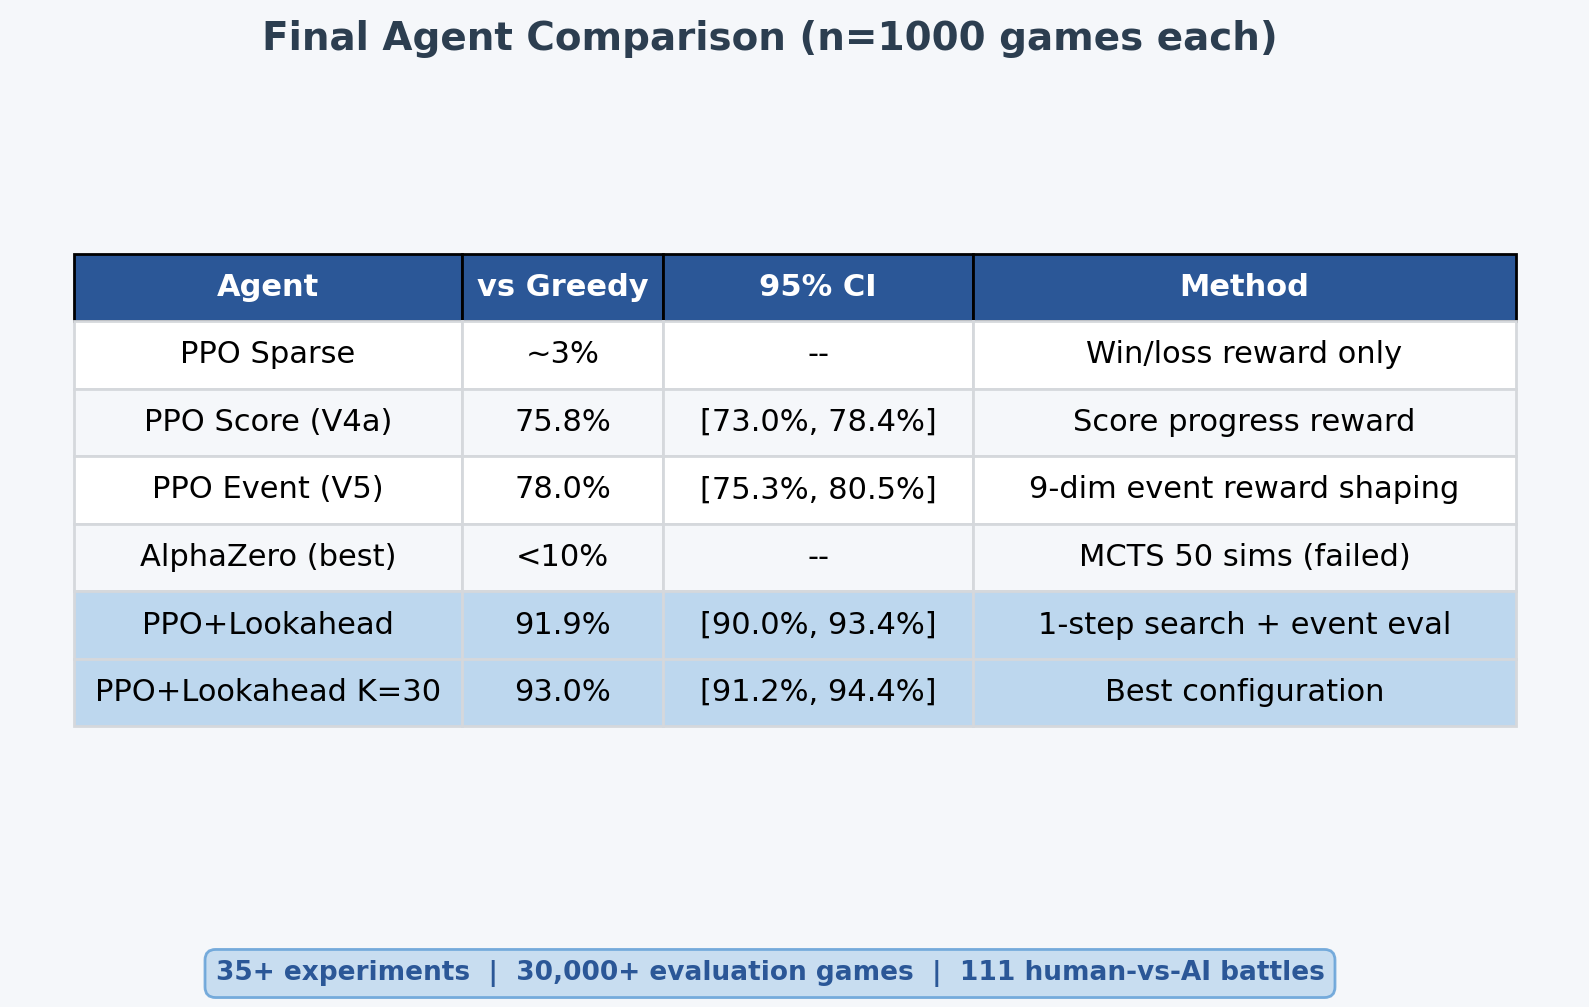
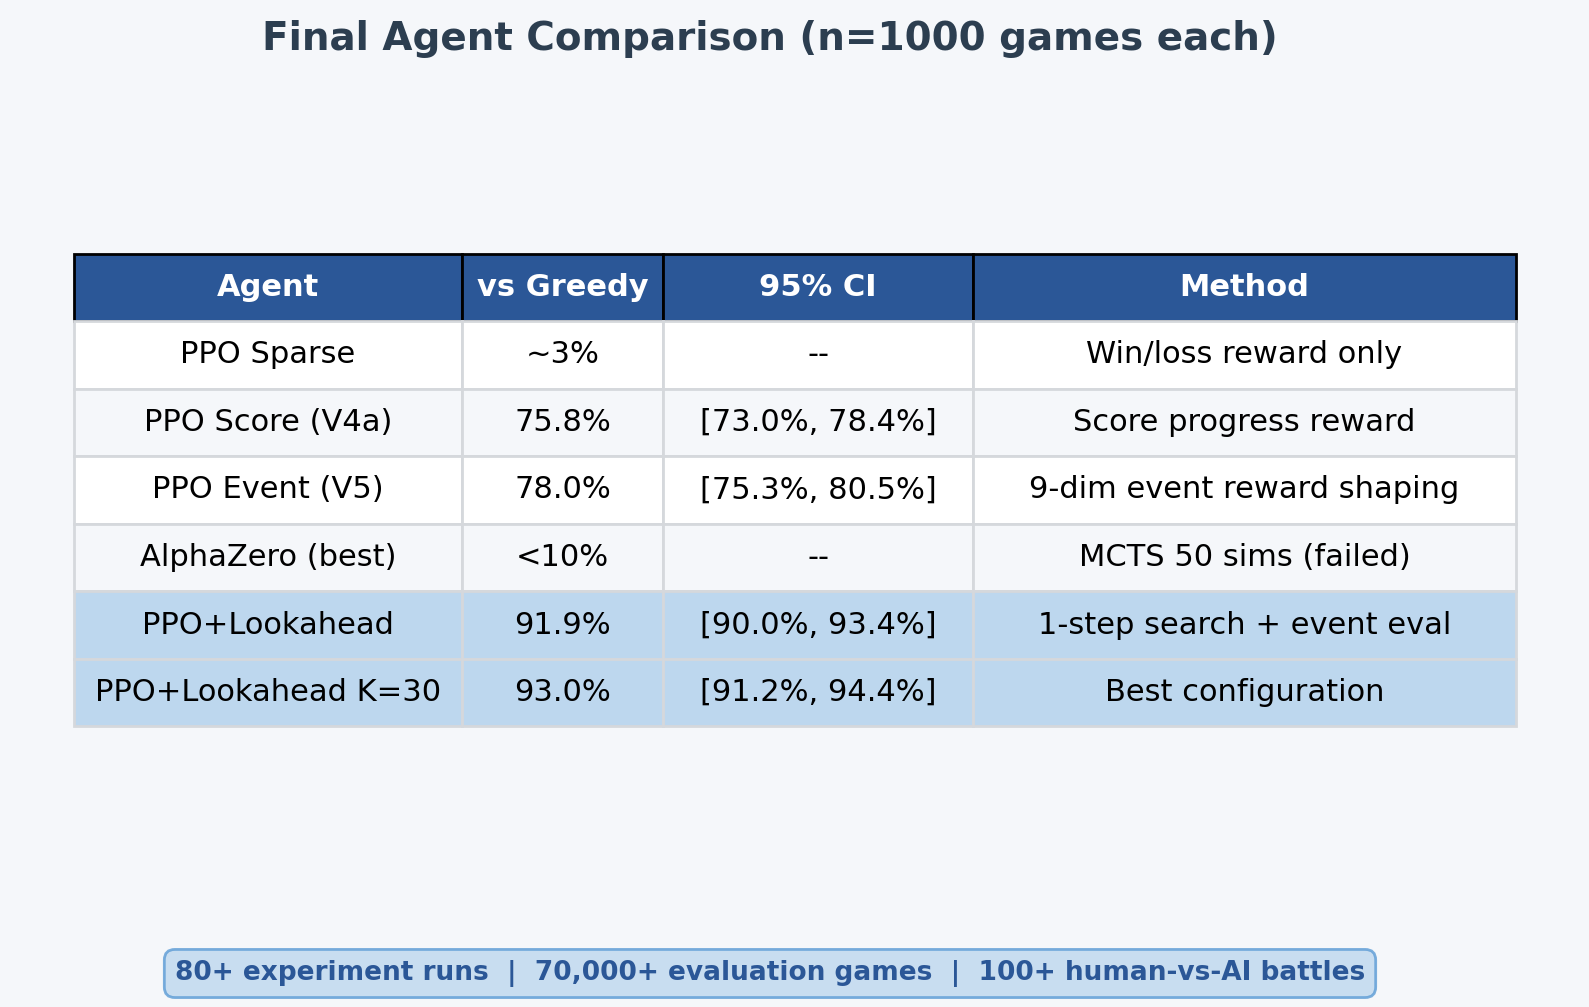
Update figures: fix labels, noise callout, 70K+ games stat

Changed region(s): [[0.0925, 0.9235, 0.8943, 1.0]]

diff --git a/project/scripts/generate_figures_v3.py b/project/scripts/generate_figures_v3.py
@@ -114,10 +114,6 @@ ax.annotate('Most critical', xy=(-5.5, 0), xytext=(-6.5, 1.5),
             arrowprops=dict(arrowstyle='->', color=PRIMARY, lw=1.5),
             bbox=dict(boxstyle='round,pad=0.2', facecolor=LIGHT_BLUE, edgecolor=PRIMARY))
 
-ax.annotate('Noise\n(removing helps)', xy=(1.1, 8), xytext=(1.5, 6.5),
-            fontsize=9, fontweight='bold', color=GRAY,
-            arrowprops=dict(arrowstyle='->', color=GRAY, lw=1.5),
-            bbox=dict(boxstyle='round,pad=0.2', facecolor=LIGHT_GRAY, edgecolor=GRAY))
 
 bottom_box(fig, 'buy_card is the MVP (-5.5pp)  |  reserve_card is noise (+1.1pp when removed)')
 plt.tight_layout(rect=[0, 0.07, 1, 1])
@@ -236,12 +232,12 @@ fig, ax = plt.subplots(figsize=(10, 3.2))
 ax.axis('off')
 
 data = [
-    ['V3 Shaped (30 iter, 50 sims)', '34.0%', '4.0%'],
-    ['V4 Warm-start (60 iter)', '6.0%', '2.0%'],
-    ['V3-long (60 iter)', '10.0%', '0.0%'],
-    ['Stage C (40 iter, 50 sims)', '30.0%', '5.0%'],
+    ['+ Event reward shaping', '34.0%', '4.0%'],
+    ['+ PPO policy distillation', '6.0%', '2.0%'],
+    ['+ Extended self-play (2x iterations)', '10.0%', '0.0%'],
+    ['+ All combined (best effort)', '30.0%', '5.0%'],
 ]
-cols = ['AlphaZero Variant', 'vs Random', 'vs Greedy']
+cols = ['What we tried', 'vs Random', 'vs Greedy']
 
 table = ax.table(cellText=data, colLabels=cols, loc='center', cellLoc='center',
                  colWidths=[0.45, 0.20, 0.20])
@@ -303,7 +299,7 @@ for j in range(len(cols)):
     table[6, j].set_facecolor(LIGHT_BLUE)
 
 fig.suptitle('Final Agent Comparison (n=1000 games each)', fontsize=14, fontweight='bold', color=DARK, y=0.98)
-bottom_box(fig, '35+ experiments  |  30,000+ evaluation games  |  111 human-vs-AI battles')
+bottom_box(fig, '80+ experiment runs  |  70,000+ evaluation games  |  100+ human-vs-AI battles')
 plt.subplots_adjust(top=0.90, bottom=0.12)
 plt.savefig(f'{OUT}/08_final_summary.png', bbox_inches='tight')
 plt.close()
